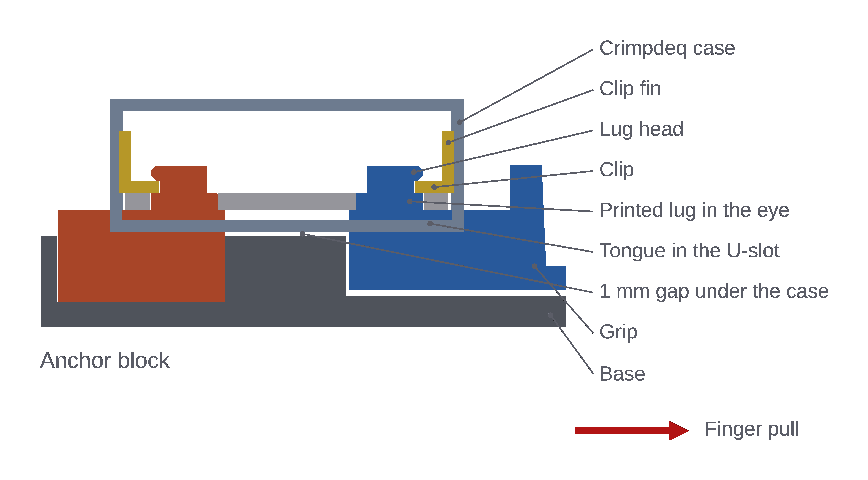
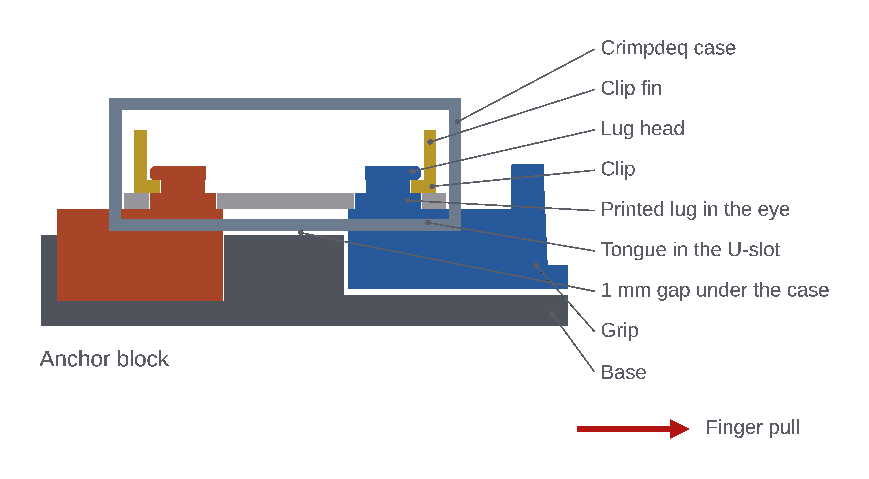
fix: harden the grip clips, lip and guide gap from the design review
- Raise the grip-guide ledge gap from 0.3 to 1 mm so print tolerances don't rest the grip on them.
- Screen the clips for the grip's tilt, which they carry: the lug neck is now Ø11 mm and the flat ring under its head 2 mm wide, taking the clip ring from about 22 to 10.3 MPa at the design load.
- Thicken the finger lip from 10 to 12 mm, taking its bending stress from 28.7 to 18.4 MPa.
- Shorten the clips and add 6 mm of finger room beside the grip-side clip's fin while fitting it.

The base joint moves to x = 111 mm; the front half is 230 mm long.

diff --git a/docs/src/design/index.md b/docs/src/design/index.md
@@ -27,11 +27,12 @@ cell rests on the tongues. On each tongue, a round lug fills the eye with
 0.25 mm clearance, and the eye bears on it across its full 16.5 mm diameter
 and the load cell's 4 mm thickness.
 
-Above the load cell the lug narrows to a Ø12 mm neck, then widens to a head
-with a 1 mm lead-in chamfer, so the eye still drops over it. The neck and head
-are cut flat on their inboard side, 1 mm clear of the battery walls that the
-case lid drops into the inboard edge of each U-slot. Only the outboard side of
-the lug carries load.
+Above the load cell the lug narrows to a Ø11 mm neck, then widens to a head
+no wider than the lug, with a 1 mm lead-in chamfer on top, so the eye still
+drops over it. The head's underside is a 2 mm-wide flat ring for the clip,
+then a short printable chamfer. The head is cut flat on its inboard side,
+1 mm clear of the battery walls that the case lid drops into the inboard edge
+of each U-slot. Only the outboard side of the lug carries the pull.
 
 The anchor block and the grip print upright. The lug is short and round, so
 even loaded across the layers its root stays at 4.4 MPa bending at the design
@@ -45,14 +46,17 @@ that lies on the load cell round a lug's neck, with a fin at its outboard end.
 It drops into the U-slot beside the lug, then slides in until its fork snaps
 round the neck: the fork's mouth is 0.3 mm narrower than the neck on each
 side. The head stops it lifting and the snap stops it sliding out. The
-clips carry no measured load. Pulling the fins releases them and frees the
-case.
+clips don't carry the pull, but they do carry the grip's tilt: they hold the
+load cell against the moment of an off-centre finger pull, bearing on the
+flat ring under each lug head. The grip-side clip's fin has 6 mm of finger
+room beside the grip while it is fitted. Pulling the fins releases the clips
+and frees the case.
 
 ## Finger pocket
 
 The pocket has an 80 × 20 mm opening and is exactly 25 mm deep. Its walls
 have a 1 mm draft and rounded corners, leaving 78 × 18 mm at the floor. A
-2 mm radius rolls the loaded +X edge, and the lip keeps at least 8 mm of
+2 mm radius rolls the loaded +X edge, and the lip keeps at least 10 mm of
 material behind it. Fingers enter from +Z and pull toward the palm rest.
 
 The pocket is set low: its top is 11 mm above the load cell's underside and
@@ -95,7 +99,8 @@ The grip hangs from the load cell and does not touch the base. Its trench
 leaves it 8 mm of free travel in the pull direction, 1 mm behind and 3 mm at
 each side. Pulling takes up at most about 1 mm of that: the lug's clearance
 in the eye, the anchor block's play in its pocket and the load cell's
-stretch. Two ledges run under the grip's side walls, 0.3 mm below them. If the
+stretch. Two ledges run under the grip's side walls, 1 mm below them, enough
+to absorb print tolerances so the grip doesn't rest on them. If the
 grip tilts, they catch it and keep its top level, but they leave it free
 along X. They only touch the grip once it has dropped onto them, and friction
 there then affects readings; see
@@ -124,8 +129,8 @@ These are setup guides, not ergonomic prescriptions.
 
 ## Base
 
-The base is 328 mm long, 122 mm wide and 22.6 mm tall below the deck, so it
-is printed as two halves that each fit a 256 mm bed: a 227 mm front half
+The base is 331 mm long, 122 mm wide and 22.6 mm tall below the deck, so it
+is printed as two halves that each fit a 256 mm bed: a 230 mm front half
 with the phone stand, anchor pocket, stopper well and grip trench, and a
 112 mm rear half with the rail and key slots. Two vertical dovetail tongues on the front half
 drop into sockets in the rear half. Under load the anchor pushes the front

diff --git a/docs/src/design/structural.md b/docs/src/design/structural.md
@@ -22,7 +22,9 @@ All values are at the 981 N design target.
 | Lug root shear across the layers | 4.6 MPa | 6 MPa |
 | Tongue root at the deck, bending across the layers | 3.1 MPa | 12 MPa |
 | Anchor block bearing on its pocket | 1.1 MPa | 12 MPa, bearing |
-| Finger lip bending over the full 25 mm edge | 28.7 MPa | 30 MPa, bending |
+| Clip on the flat ring under the lug head, largest finger-pull tilt | 10.3 MPa | 12 MPa, bearing |
+| Lug neck pulled by the clip, across the layers | 4.1 MPa | 12 MPa |
+| Finger lip bending over the full 25 mm edge | 18.4 MPa | 30 MPa, bending |
 | Grip side and back walls in tension | 1.3 MPa | 12 MPa |
 | Either index key alone, in shear | 10.2 MPa | 12 MPa |
 | Key bearing in the rest wing / base slot | 5.6 / 4.4 MPa | 12 MPa, bearing |
@@ -33,8 +35,13 @@ All values are at the 981 N design target.
 Each index key is screened for the **entire** palm force. Both keys must
 still be fitted; the one-key calculation does not authorise using one.
 The base joint is in compression under load and is not screened. The
-clips, stoppers, grip guides, stopper well and phone stand are outside the
-load path.
+stoppers, grip guides, stopper well and phone stand are outside the load
+path.
+
+The clip screen takes the largest finger-pull offset from the load-cell
+plane (4 mm, with both stoppers) at the design force. It is reacted between
+the clip and the tongue seat, taken 10 mm from the eye centre, and bears on
+the outboard half of the flat ring under the lug head only.
 
 ## The eye lugs
 

diff --git a/AGENTS.md b/AGENTS.md
@@ -26,8 +26,9 @@
   battery walls. Keep the lugs solid, and screen the lug and tongue roots
   across the layers (anchor block and grip printed upright).
 - Keep both snap-on eye clips holding the load cell down under the lug heads,
-  fitted by dropping into the U-slot and sliding onto the neck, and outside
-  the load path.
+  fitted by dropping into the U-slot and sliding onto the neck with finger
+  room beside the grip-side fin; screen the clip ring and lug neck for the
+  grip's tilt, which they carry, though not the pull.
 - Keep the four-finger hangboard pocket exactly 25 mm deep with at least an
   80 mm-wide opening, 6 mm back wall, and 8 mm loading lip, its `+Z` opening
   clear, and every edge's mid-depth within 5 mm of the load-cell plane.
@@ -36,8 +37,8 @@
   slots in the pocket end walls that stand proud of the grip top and leave
   the whole stopper top free for the fingers, and their storage well in the
   deck beside the case.
-- Keep the grip-guide ledges under the grip's side walls with a Z gap and
-  free X travel, so they catch tilt without carrying measured load.
+- Keep the grip-guide ledges under the grip's side walls with a 0.8–1.2 mm
+  Z gap and free X travel, so they catch tilt without carrying measured load.
 - Keep the palm rest's solid heel deck level with the pocket mouth and its
   palm bolster rising 18–24 mm above it, at least 2 mm above the key heads.
 - Preserve its nine positively locked 25–105 mm opening positions, with the

diff --git a/docs/src/build/printing.md b/docs/src/build/printing.md
@@ -25,8 +25,8 @@ not fit together.
 | `crimpdeq-platform-rest.stl` | Palm rest | 2 |
 
 > [!NOTE]
-> The base comes as two halves because it is 328 mm long and does not fit a
-> 256 mm bed, even diagonally. The front half is 227 mm long and the rear
+> The base comes as two halves because it is 331 mm long and does not fit a
+> 256 mm bed, even diagonally. The front half is 230 mm long and the rear
 > half 112 mm; both are 122 mm wide. The phone stand makes the front half
 > 60 mm tall at one end, the tallest part on the plates.
 
@@ -87,7 +87,7 @@ No part needs support, so supports are off. The base halves print flat with
 every slot, pocket, trench and well open upward; the rear half's joint
 sockets (12 mm) and the palm rest's rail groove (25 mm) are closed by
 bridges. The anchor block and grip print upright with their lugs on top;
-the flat ring under each lug head is only 1 mm wide. The clips print flat on
+the flat ring under each lug head is only 2 mm wide. The clips print flat on
 their clamp faces with their fins up, the keys stand on their sides, and the
 stoppers print flat with their pull tabs upright.
 

diff --git a/docs/src/build/grip-case-and-clips.md b/docs/src/build/grip-case-and-clips.md
@@ -25,7 +25,9 @@ For each lug:
 1. Hold a clip by its fin, flat side down, fork toward the case centre.
 2. Drop it into the slot in the case end beside the lug head, onto the load
    cell.
-3. Push it in until its fork snaps round the lug's neck, under the head.
+3. Push it in by its fin until its fork snaps round the lug's neck, under the
+   head. On the grip side there is 6 mm of finger room between the fin and
+   the grip.
 
 The clips hold the load cell down on the tongues, and the grip hangs from it.
 
@@ -35,8 +37,8 @@ The clips hold the load cell down on the tongues, and the grip hangs from it.
 
 - [ ] The case doesn't touch the deck, the anchor block or the grip. A sheet
       of paper slides under it.
-- [ ] The grip's top is level. Note whether it hangs free or rests on the
-      guide ledges.
+- [ ] The grip's top is level and hangs free: a strip of paper slides
+      between both guide ledges and the grip's side walls.
 - [ ] The switch and USB port are easy to reach.
 
 To take the case out, pull both clips out by their fins and lift the case

diff --git a/docs/src/build/slicer-checks.md b/docs/src/build/slicer-checks.md
@@ -31,7 +31,7 @@ rotated or the model changed. Re-import the release files.
 ## D. Plate 1: the lugs
 
 - [ ] Step up through the top of the grip's and the anchor block's lugs: the
-      neck and head print as closed outlines, and the 1 mm ring under each
+      neck and head print as closed outlines, and the 2 mm ring under each
       head prints as an overhang wall, not in free air.
 
 ## E. Plate 2: bridges
